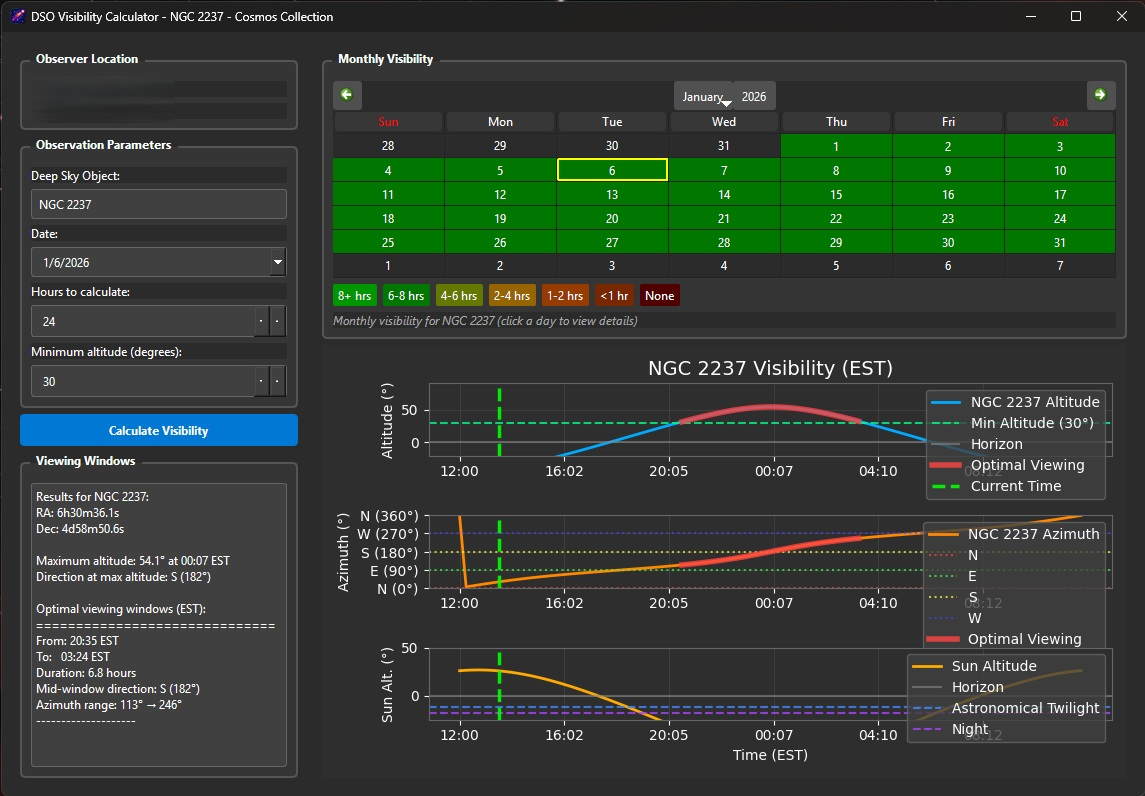
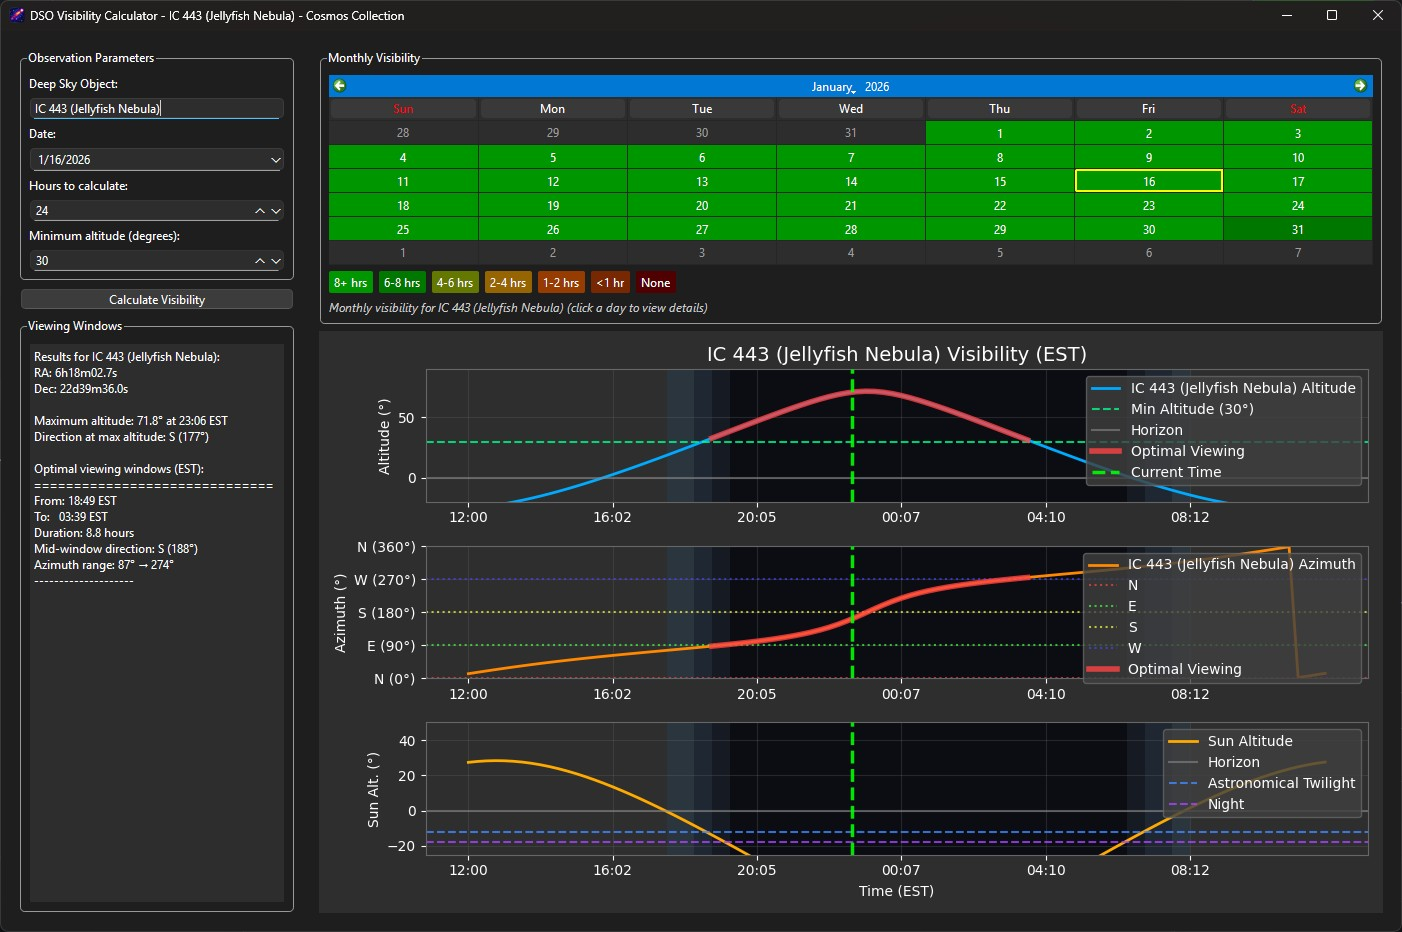
* Added a background color based on civil twilight, nautical twilight and astronomical twilight.
* Updated screenshot

diff --git a/DSOVisibilityCalculator.py b/DSOVisibilityCalculator.py
@@ -874,6 +874,44 @@ class VisibilityPlot(FigureCanvas):
         # Connect mouse leave event
         self.mpl_connect('axes_leave_event', self.on_mouse_leave)
 
+    def _add_darkness_shading(self, ax, hours_from_start, sun_altitudes):
+        """Add background shading to show darkness levels based on sun altitude.
+
+        Colors represent:
+        - Daylight (sun > 0°): No shading (default background)
+        - Civil twilight (0° to -6°): Light shade
+        - Nautical twilight (-6° to -12°): Medium shade
+        - Astronomical twilight (-12° to -18°): Dark shade
+        - Night (< -18°): Darkest shade
+        """
+        # Define darkness thresholds and colors (from lightest to darkest)
+        # Format: (sun_max, sun_min, color, alpha)
+        darkness_levels = [
+            (0, -6, '#2a3a4a', 0.6),      # Civil twilight - light blue-gray
+            (-6, -12, '#1a2535', 0.7),    # Nautical twilight - medium blue
+            (-12, -18, '#101520', 0.8),   # Astronomical twilight - dark blue
+            (-18, -90, '#080a10', 0.9),   # Night - very dark blue/black
+        ]
+
+        # For each darkness level, find and shade the regions
+        for sun_max, sun_min, color, alpha in darkness_levels:
+            # Find indices where sun is in this range
+            in_range = (sun_altitudes <= sun_max) & (sun_altitudes > sun_min)
+
+            if not np.any(in_range):
+                continue
+
+            # Find contiguous regions
+            diff = np.diff(np.concatenate(([False], in_range, [False])).astype(int))
+            starts = np.where(diff == 1)[0]
+            ends = np.where(diff == -1)[0]
+
+            # Shade each contiguous region
+            for start_idx, end_idx in zip(starts, ends):
+                x_start = hours_from_start[start_idx]
+                x_end = hours_from_start[min(end_idx, len(hours_from_start) - 1)]
+                ax.axvspan(x_start, x_end, facecolor=color, alpha=alpha, zorder=0)
+
     def plot_visibility(self, results):
         """Create visibility plot with altitude and azimuth"""
         self.figure.clear()
@@ -906,8 +944,15 @@ class VisibilityPlot(FigureCanvas):
         start_local = local_times[0]
         hours_from_start = [(lt - start_local).total_seconds() / 3600 for lt in local_times]
 
+        # Get sun altitudes as numpy array for shading calculations
+        sun_altitudes = sun_altaz.alt.deg
+
         # Create three subplots: altitude, azimuth, and sun
         ax1 = self.figure.add_subplot(3, 1, 1, facecolor='#2e2e2e')
+
+        # Add darkness shading first (so it appears behind the data)
+        self._add_darkness_shading(ax1, hours_from_start, sun_altitudes)
+
         ax1.plot(hours_from_start, dso_altaz.alt.deg, '#00aaff', linewidth=2, label=f'{dso_name} Altitude')
         ax1.axhline(y=30, color='#00ff88', linestyle='--', alpha=0.8, label='Min Altitude (30°)')
         ax1.axhline(y=0, color='#888888', linestyle='-', alpha=0.6, label='Horizon')
@@ -939,6 +984,10 @@ class VisibilityPlot(FigureCanvas):
 
         # DSO azimuth subplot
         ax2 = self.figure.add_subplot(3, 1, 2, facecolor='#2e2e2e')
+
+        # Add darkness shading
+        self._add_darkness_shading(ax2, hours_from_start, sun_altitudes)
+
         ax2.plot(hours_from_start, dso_altaz.az.deg, '#ff8800', linewidth=2, label=f'{dso_name} Azimuth')
 
         # Add cardinal direction lines
@@ -965,6 +1014,10 @@ class VisibilityPlot(FigureCanvas):
 
         # Sun altitude subplot
         ax3 = self.figure.add_subplot(3, 1, 3, facecolor='#2e2e2e')
+
+        # Add darkness shading
+        self._add_darkness_shading(ax3, hours_from_start, sun_altitudes)
+
         ax3.plot(hours_from_start, sun_altaz.alt.deg, '#ffaa00', linewidth=2, label='Sun Altitude')
         ax3.axhline(y=0, color='#888888', linestyle='-', alpha=0.6, label='Horizon')
         ax3.axhline(y=-12, color='#4488ff', linestyle='--', alpha=0.8, label='Astronomical Twilight')
